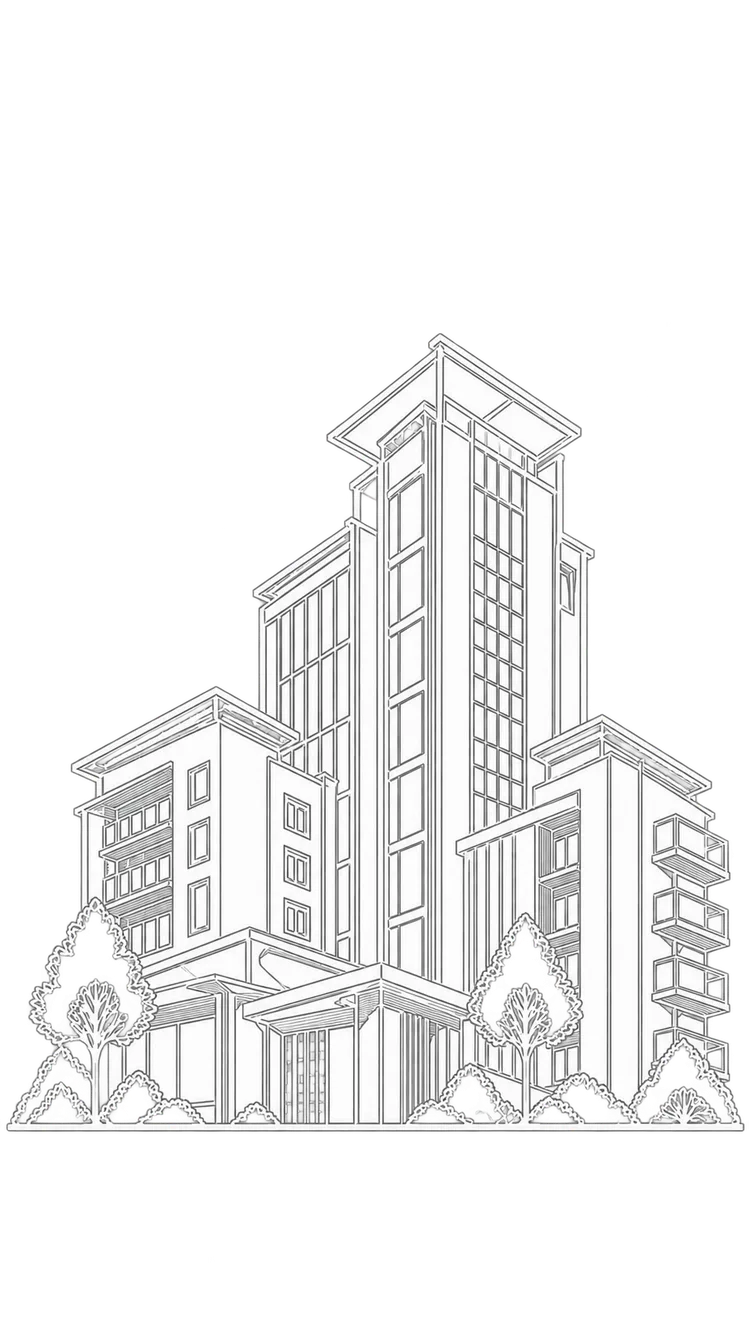
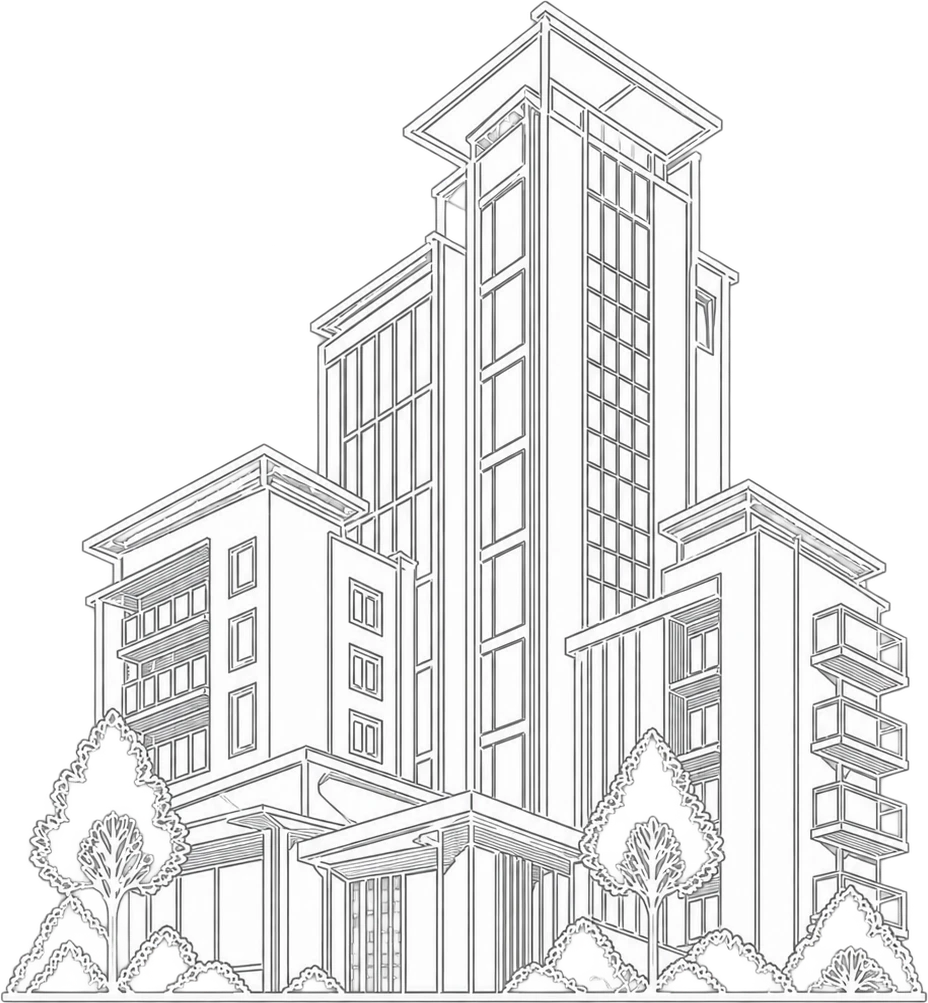
Fill architectural sketch properly in mobile viewport footer

Changed region(s): [[0.0, 0.0, 1.0, 1.0]]

diff --git a/src/components/layout/Footer.tsx b/src/components/layout/Footer.tsx
@@ -35,19 +35,19 @@ export const Footer = () => {
             className="hidden sm:block w-full max-w-[1800px] h-auto object-contain object-bottom opacity-20 select-none"
           />
           {/* Architectural Building Sketch for Mobile Viewport */}
-          <picture className="block sm:hidden w-full h-full flex items-end justify-center">
-            <source srcSet="/images/footer-mobile-building.webp" type="image/webp" />
+          <picture className="block sm:hidden absolute inset-0 w-full h-full">
+            <source srcSet="/images/footer-mobile-building.webp?v=2" type="image/webp" />
             <img
-              src="/images/footer-mobile-building.png"
+              src="/images/footer-mobile-building.png?v=2"
               alt=""
               aria-hidden="true"
               loading="lazy"
               decoding="async"
-              className="w-auto h-auto max-h-[85%] max-w-[85%] object-contain object-bottom opacity-25 select-none mx-auto"
+              className="w-full h-full object-cover object-bottom opacity-30 select-none"
             />
           </picture>
           {/* Subtle gradient blend */}
-          <div className="absolute inset-0 bg-gradient-to-t from-[#2A2828]/60 via-transparent to-[#2A2828]/90" />
+          <div className="absolute inset-0 bg-gradient-to-t from-[#2A2828]/70 via-[#2A2828]/20 to-[#2A2828]/60 sm:to-[#2A2828]/90 pointer-events-none" />
         </div>
 
         <div className="relative z-10 max-w-[1320px] mx-auto px-4 sm:px-6 lg:px-10">
